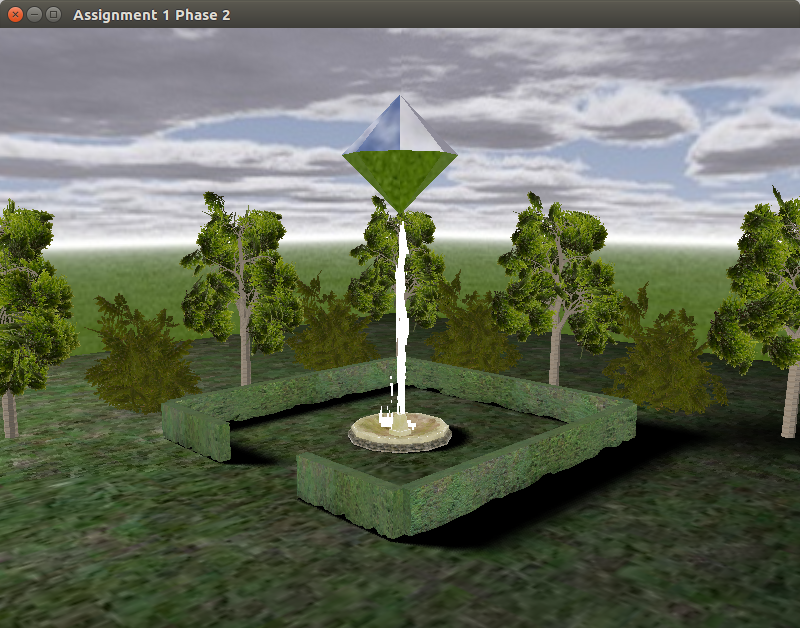
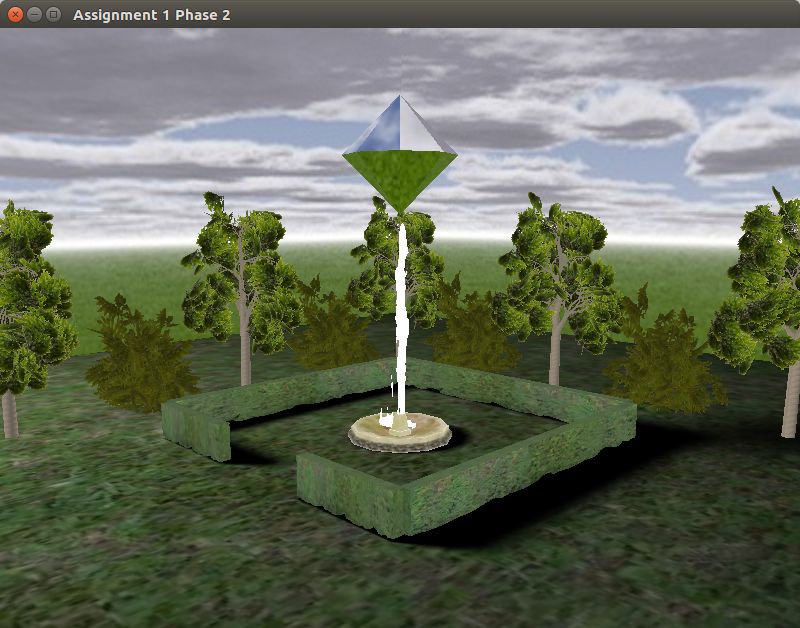
Enhanced mipmap rendering.

diff --git a/assig1phase2/main.cpp b/assig1phase2/main.cpp
@@ -97,8 +97,8 @@ void loadTextures() {
 				glBindTexture(GL_TEXTURE_2D, textures[idx++]);
 				glTexParameteri(GL_TEXTURE_2D, GL_TEXTURE_WRAP_S, GL_REPEAT);
 				glTexParameteri(GL_TEXTURE_2D, GL_TEXTURE_WRAP_T, GL_REPEAT);
-				glTexParameteri(GL_TEXTURE_2D, GL_TEXTURE_MIN_FILTER, GL_NEAREST_MIPMAP_LINEAR);
-				glTexParameteri(GL_TEXTURE_2D, GL_TEXTURE_MAG_FILTER, GL_LINEAR);
+				glTexParameteri(GL_TEXTURE_2D, GL_TEXTURE_MIN_FILTER, GL_LINEAR_MIPMAP_LINEAR);
+				glTexParameteri(GL_TEXTURE_2D, GL_TEXTURE_MAG_FILTER, GL_LINEAR_MIPMAP_LINEAR);
 				glTexParameteri(GL_TEXTURE_2D, GL_TEXTURE_BASE_LEVEL, 0);
 				glTexParameteri(GL_TEXTURE_2D, GL_TEXTURE_MAX_LEVEL, 1000);
 				glTexImage2D(
@@ -119,8 +119,9 @@ void loadTextures() {
 						glTexParameteri(GL_TEXTURE_CUBE_MAP, GL_TEXTURE_WRAP_S, GL_REPEAT);
 						glTexParameteri(GL_TEXTURE_CUBE_MAP, GL_TEXTURE_WRAP_T, GL_REPEAT);
 						glTexParameteri(GL_TEXTURE_CUBE_MAP, GL_TEXTURE_MIN_FILTER,
-						                GL_NEAREST_MIPMAP_LINEAR);
-						glTexParameteri(GL_TEXTURE_CUBE_MAP, GL_TEXTURE_MAG_FILTER, GL_LINEAR);
+						                GL_LINEAR_MIPMAP_LINEAR);
+						glTexParameteri(GL_TEXTURE_CUBE_MAP, GL_TEXTURE_MAG_FILTER,
+						                GL_LINEAR_MIPMAP_LINEAR);
 						glTexParameteri(GL_TEXTURE_CUBE_MAP, GL_TEXTURE_BASE_LEVEL, 0);
 						glTexParameteri(GL_TEXTURE_CUBE_MAP, GL_TEXTURE_MAX_LEVEL, 1000);
 						glTexImage2D(
